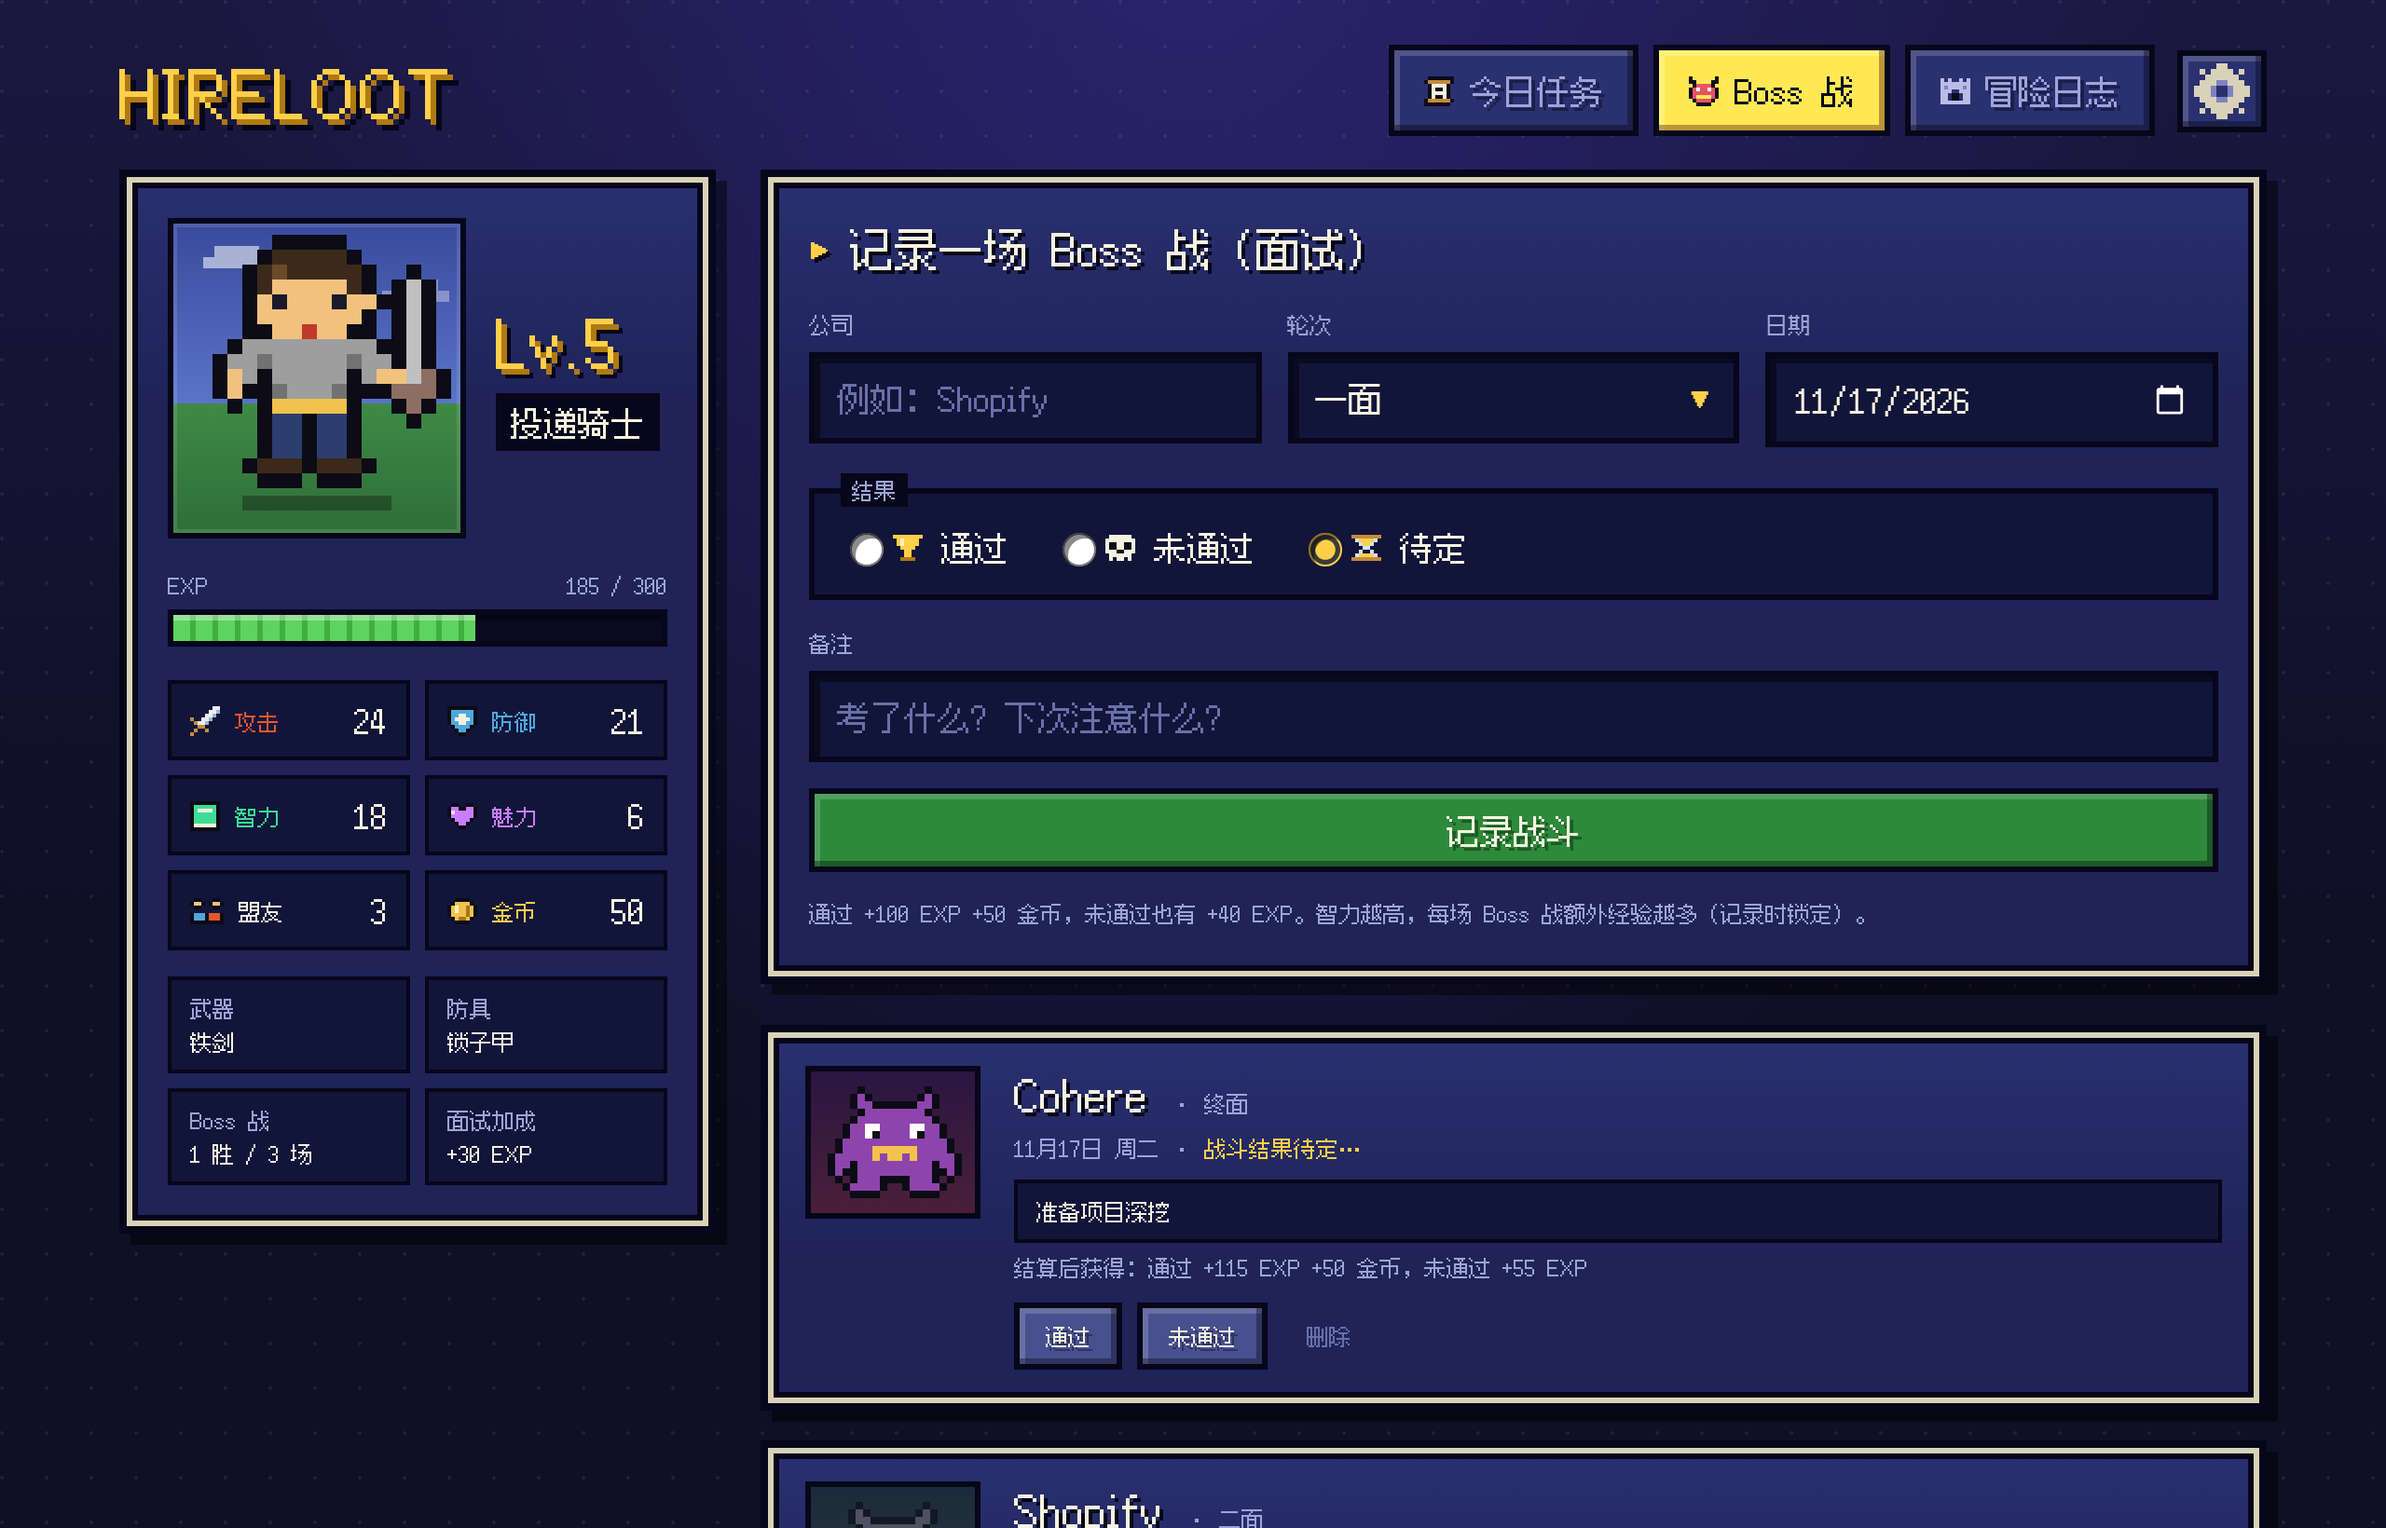
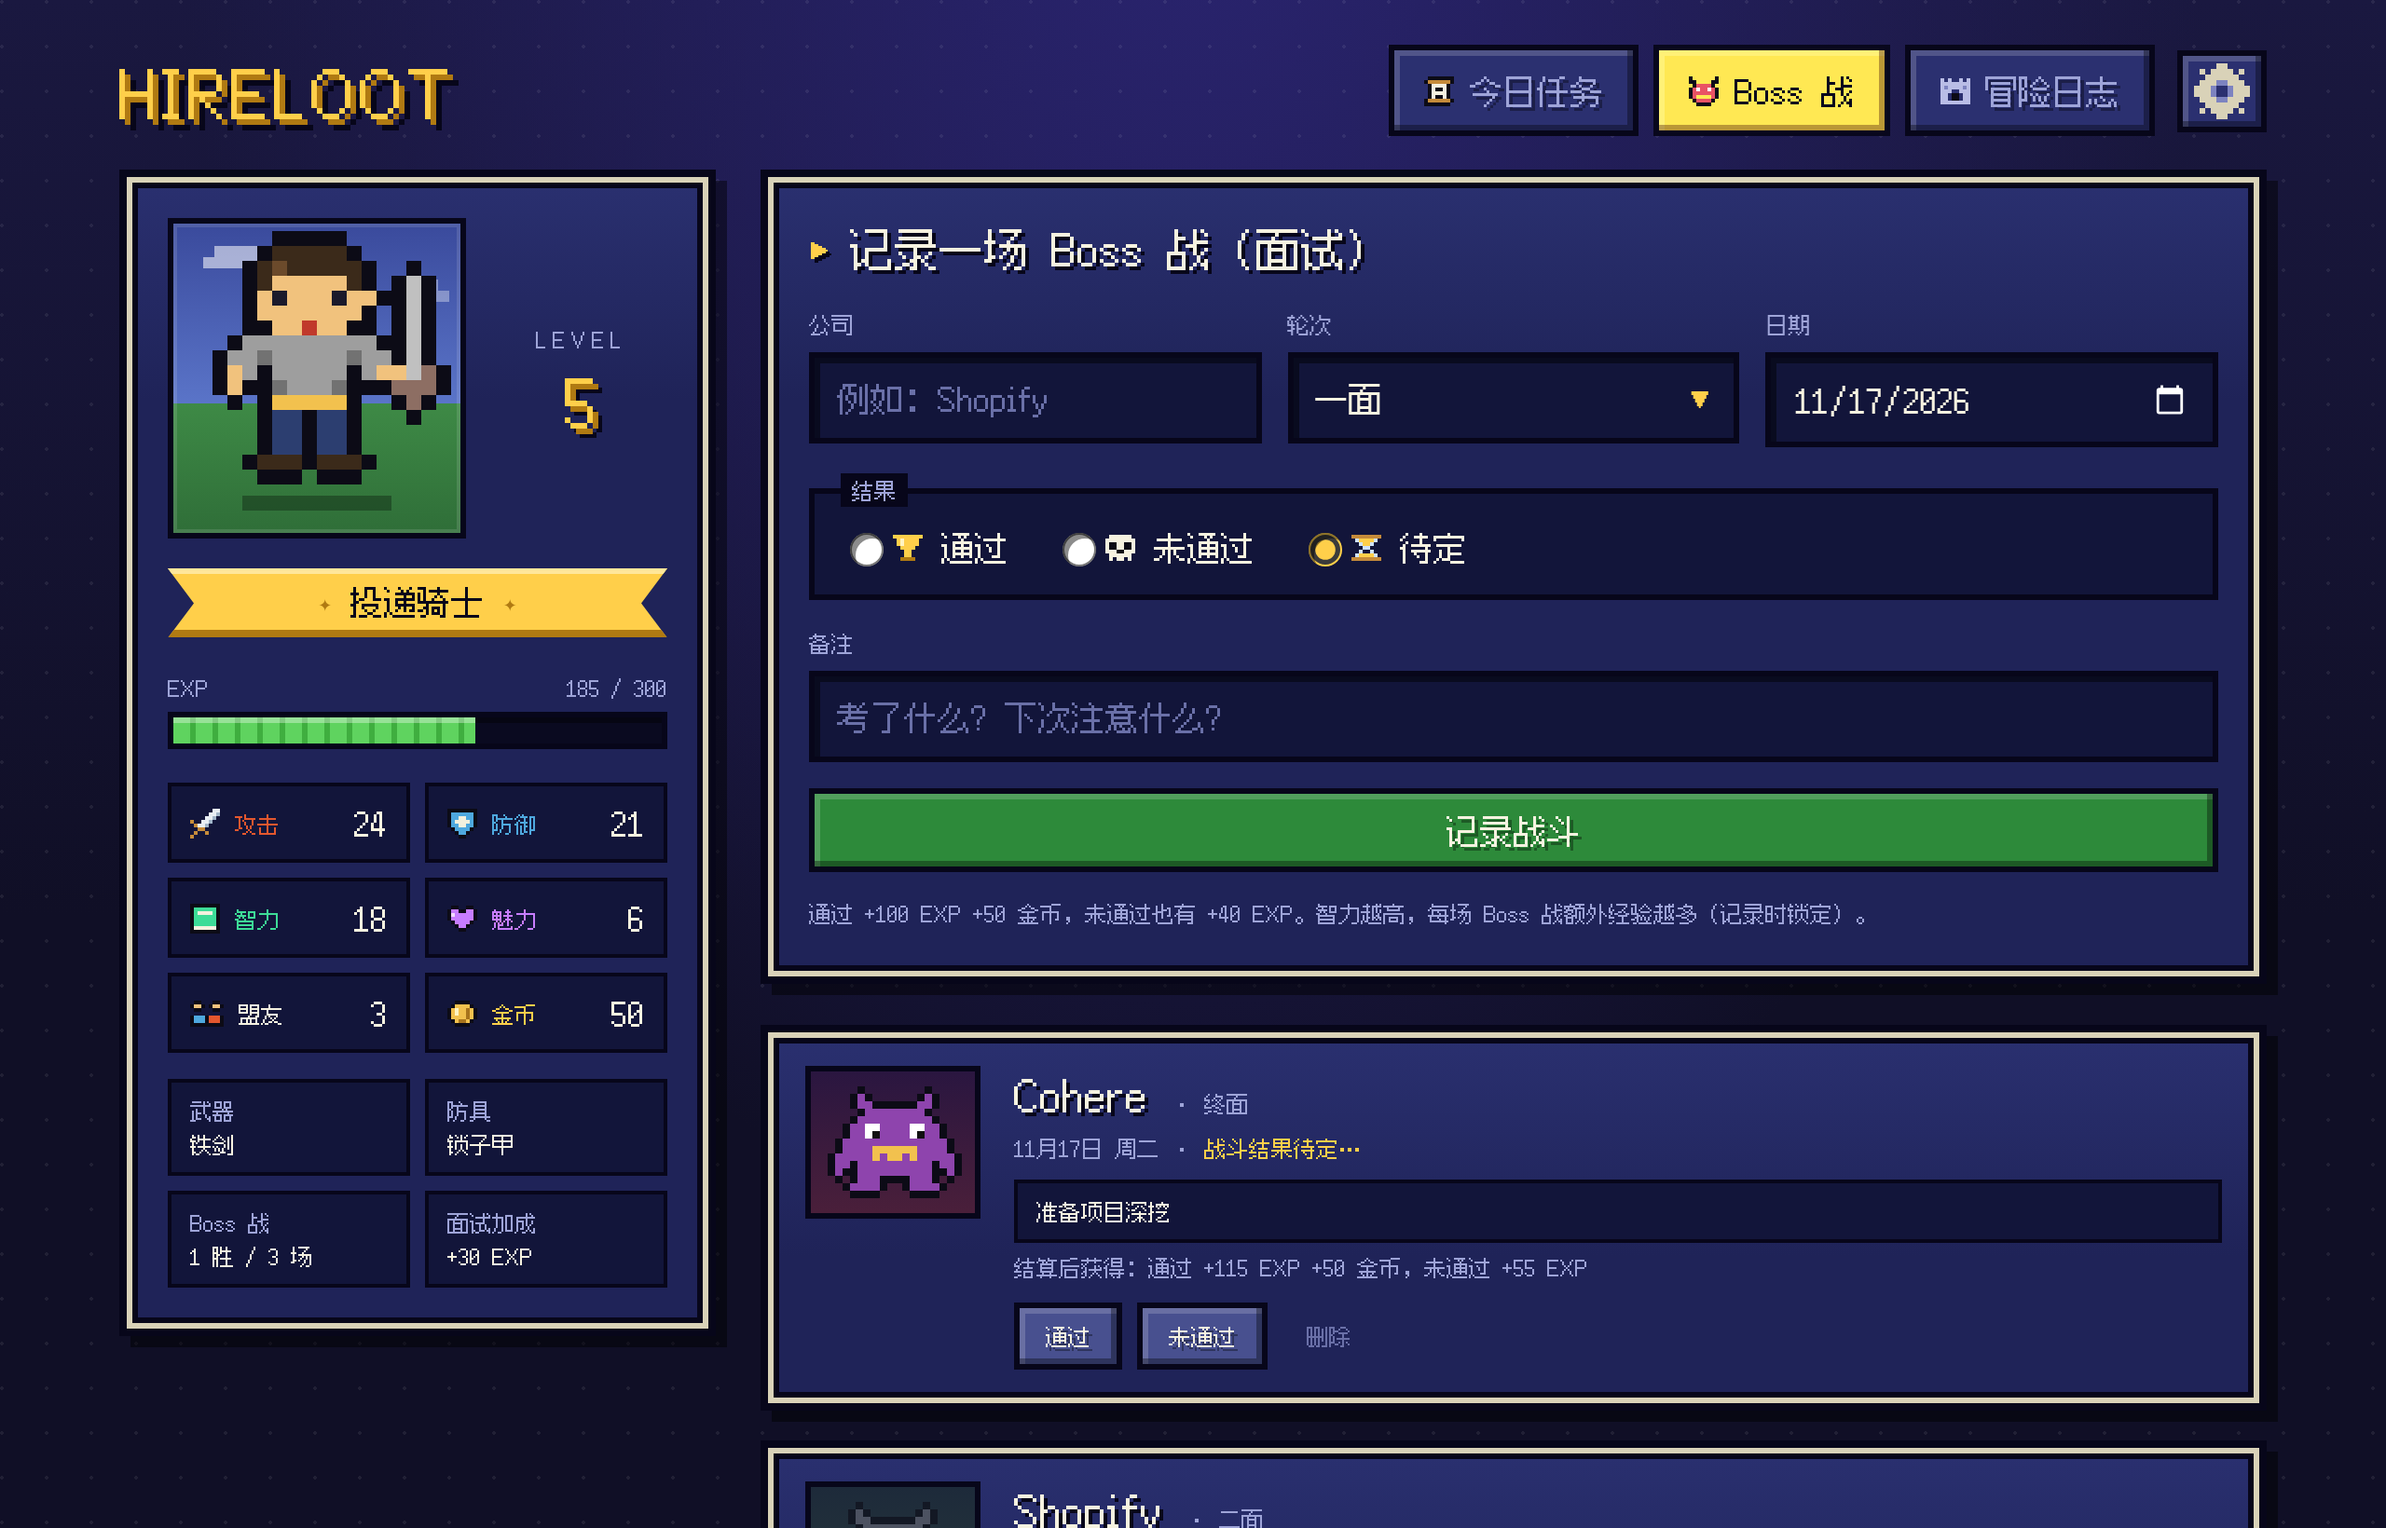
Redesign hero title as a gold ribbon

Changed region(s): [[0.0312, 0.3732, 0.3125, 0.8707], [0.0938, 0.1555, 0.2812, 0.311]]

diff --git a/style.css b/style.css
@@ -150,7 +150,6 @@ h2::before { content: "▶"; color: var(--gold); font-size: var(--s); margin-rig
 .avatar svg { position: relative; z-index: 1; display: block; animation: bob 1.2s steps(2) infinite; }
 @keyframes bob { 50% { transform: translateY(-4px); } }
 .lv { font-size: 36px; line-height: 1; color: var(--gold); text-shadow: 3px 3px 0 var(--gold-dk), 5px 5px 0 var(--edge); }
-.title { font-size: var(--m); margin-top: 10px; padding: 2px 8px; background: var(--edge); display: inline-block; }
 .bar-label { display: flex; justify-content: space-between; font-size: var(--s); color: var(--muted); margin-bottom: 4px; }
 .bar { height: 20px; border: 3px solid var(--edge); background: #0a0a20; box-shadow: inset 0 3px 0 rgba(0,0,0,.4); }
 .bar > i {
@@ -370,5 +369,16 @@ details[open] > summary::before { transform: rotate(90deg); }
 .lang-btn.active { background: var(--gold); color: var(--edge); text-shadow: none; }
 .hint:empty { display: none; }
 @media (prefers-reduced-motion: reduce) { .gear:hover .ico { animation: none; } }
-.hero-top > div:last-child { min-width: 0; }
-.title { max-width: 100%; }
+
+/* 等级 + 称号缎带 */
+.lv-box { flex: 1; min-width: 0; text-align: center; }
+.lv-box small { display: block; font-size: var(--s); color: var(--muted); letter-spacing: 3px; margin-bottom: 6px; }
+.lv-box .lv { font-size: 36px; }
+.title {
+  position: relative; margin: 0 0 18px; padding: 6px 30px 8px; text-align: center;
+  font-size: var(--m); line-height: 1.3; color: var(--edge);
+  background: var(--gold);
+  box-shadow: inset 0 3px 0 #ffe79a, inset 0 -4px 0 var(--gold-dk);
+  clip-path: polygon(0 0, 100% 0, calc(100% - 14px) 50%, 100% 100%, 0 100%, 14px 50%);
+}
+.title span::before, .title span::after { content: "✦"; font-size: var(--s); color: var(--gold-dk); margin: 0 10px; vertical-align: 2px; }

diff --git a/app.js b/app.js
@@ -2,6 +2,14 @@
 (function () {
   'use strict';
 
+  // 旧名字 JobQuest 时期的存档，第一次打开时自动搬过来
+  try {
+    for (const k of ['v1', 'lang', 'tab']) {
+      const old = localStorage.getItem('jobquest.' + k);
+      if (old !== null && localStorage.getItem('hireloot.' + k) === null) localStorage.setItem('hireloot.' + k, old);
+    }
+  } catch (e) { /* ignore */ }
+
   // ============ 规则配置（想改数值就改这里） ============
   // none = 默认无分类：普通待办，不加属性
   // 文字（名称、说明）在 i18n.js 里
@@ -50,13 +58,6 @@
 
   // ============ 存储 ============
   const STORE_KEY = 'hireloot.v1';
-  // 旧名字 JobQuest 时期的存档，第一次打开时自动搬过来
-  try {
-    for (const k of ['v1', 'lang', 'tab']) {
-      const old = localStorage.getItem('jobquest.' + k);
-      if (old !== null && localStorage.getItem('hireloot.' + k) === null) localStorage.setItem('hireloot.' + k, old);
-    }
-  } catch (e) { /* ignore */ }
   function emptyState() { return { version: 1, tasks: [], interviews: [] }; }
   function load() {
     try {
@@ -270,11 +271,12 @@
     $('#hero').innerHTML = `
       <div class="hero-top">
         <div class="avatar">${heroSprite(st)}</div>
-        <div>
-          <div class="lv">Lv.${st.lv}</div>
-          <div class="title">${titleName(st.lv)}</div>
+        <div class="lv-box">
+          <small>LEVEL</small>
+          <div class="lv">${st.lv}</div>
         </div>
       </div>
+      <div class="title"><span>${esc(titleName(st.lv))}</span></div>
       <div class="bar-label"><span>EXP</span><span>${st.cur} / ${st.need}</span></div>
       <div class="bar"><i style="width:${(st.cur / st.need * 100).toFixed(1)}%"></i></div>
       <ul class="stats">
